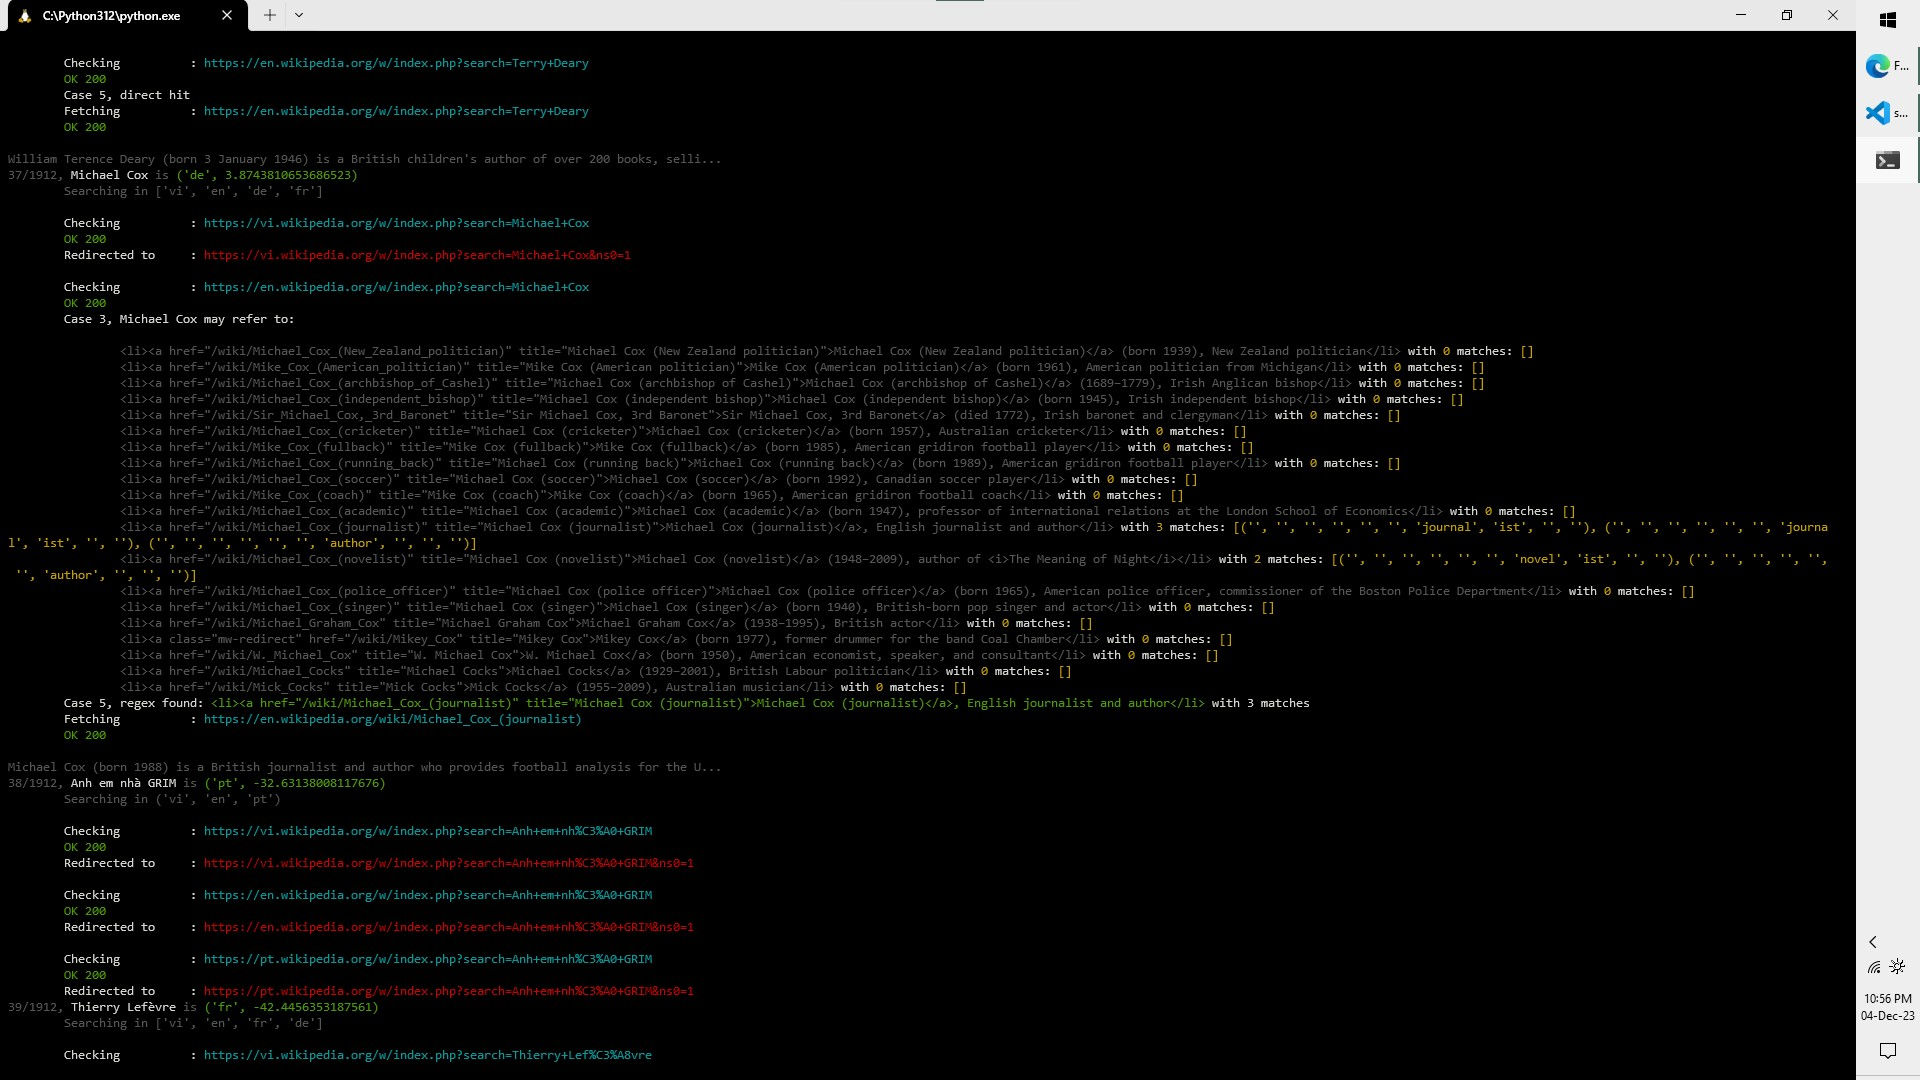
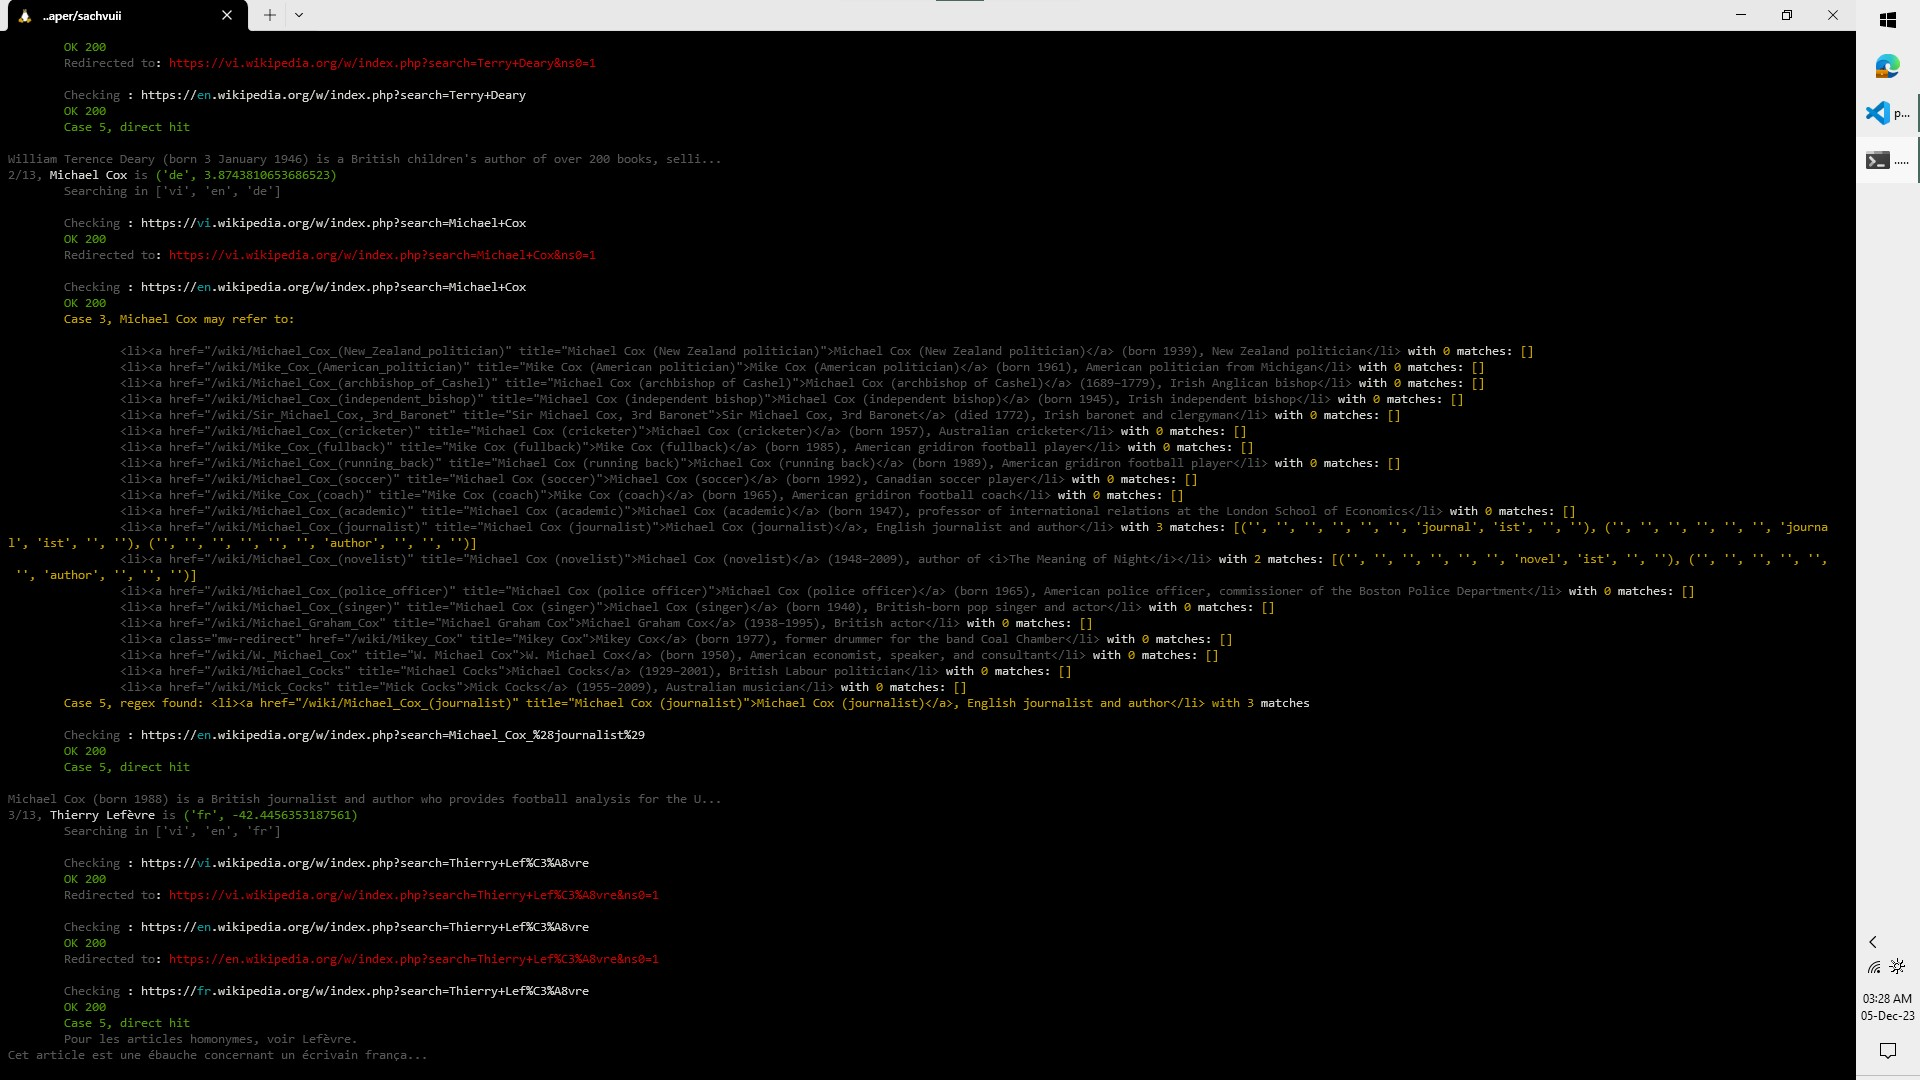
Improved script user interface

diff --git a/lib/scraper/sachvuii/postProcessingToMatchFirebase.py b/lib/scraper/sachvuii/postProcessingToMatchFirebase.py
@@ -24,8 +24,8 @@ genres = {"__collections__": {"genre": {}}}
 # Changes made to the jsons:
 #   renamed genresID to genreID
 #   genreID and authorID are now lists instead strings
-#   book.json "genreID" is linked with with "name" genre.json
-#   book.json "authorID" is linked with with "name" author.json
+#   book.json "genreID" is linked with "name" genre.json
+#   book.json "authorID" is linked with "name" author.json
 #   if author is foreign, we will look them up on Wikipedia, and get their profile (if exists)
 # Known effects:
 #   since you cannot rename JSON key, and only del old key & add new key, genreID now is at the bottom of each book
@@ -295,7 +295,9 @@ def findAuthorWikipedia(name, lang):
     response = requests.get("https://" + lang + ".wikipedia.org/w/index.php?search=" + safe_string, headers=headers, timeout=20, allow_redirects=True)
     # print(response.request.headers["User-Agent"])
 
-    print("\n\t{0:<18}: {1}".format("Checking", "https://" + colored(lang, "cyan") + ".wikipedia.org/w/index.php?search=" + safe_string))
+    print("\n\t{0:<18}: {1}".format(
+        colored("Checking", "dark_grey"),
+        "https://" + colored(lang, "cyan") + ".wikipedia.org/w/index.php?search=" + safe_string))
 
     react_to_status_code(response)
 
@@ -309,7 +311,9 @@ def findAuthorWikipedia(name, lang):
     # get url of redirected page
     redirectedURL = response.url
     if "&ns0=1" in redirectedURL:
-        print("\t{0:<18}: {1}".format("Redirected to", colored(redirectedURL, "red")))
+        print("\t{0:<18}{1}".format(
+            colored("Redirected to: ", "dark_grey"),
+            colored(redirectedURL, "red")))
         return "-1"
 
     # case 1
@@ -342,7 +346,10 @@ def findAuthorWikipedia(name, lang):
 
             keywords = re.compile(r"" + vietnameseKeywords + "|" + englishKeywords + "|" + frenchKeywords + "|" + germanKeywords + "", re.IGNORECASE)
             if "may refer to" in personMayReferTo.getText():
-                print("\tCase 3, " + personMayReferTo.getText())
+                print("\t{0}{1}".format(
+                    colored("Case 3, ", "yellow"),
+                    colored(personMayReferTo.getText(), "yellow")
+                ))
 
                 # changed root to search
                 personMayReferTo = soup.find("div", {"class": "mw-content-ltr mw-parser-output"})
@@ -364,7 +371,13 @@ def findAuthorWikipedia(name, lang):
                             bestMatchCase[0] = person
                             bestMatchCase[1] = len(result)
 
-                print("\tCase 5, regex found: " + colored(bestMatchCase[0], "green") + " with " + str(bestMatchCase[1]) + " matches", end="\n")
+                print("\t{0}{1}{2}{3}{4}".format(
+                    colored("Case 5, regex found: ", "yellow"),
+                    colored(str(bestMatchCase[0]), "yellow"),
+                    " with ",
+                    colored(str(bestMatchCase[1]), "yellow"),
+                    " matches"
+                ), end="\n")
 
                 # if case 3 still can't find any match, return -1
                 if bestMatchCase[0] == "":
@@ -376,7 +389,7 @@ def findAuthorWikipedia(name, lang):
 
             # case 1
             else:
-                print("\tCase 5, direct hit", end="")
+                print("\t{0}".format(colored("Case 5, direct hit", "green")), end="")
                 # print("\tCase 5, direct hit: " + colored("https://" + lang + ".wikipedia.org/w/index.php?search=" + safe_string, "green"), end="")
                 return soup
 
